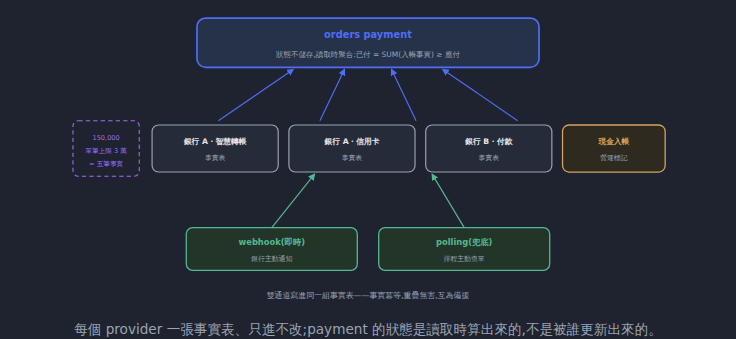
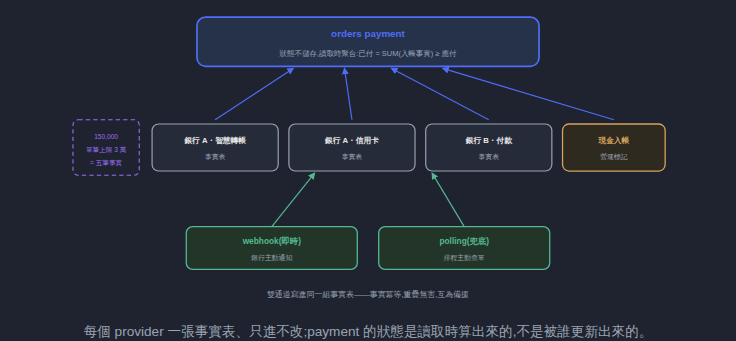
修正 #7 金流章:事實表箭頭錨點、留言層重放的互文、day12 前情銜接
review #7 rezero-payment 的三個修正:

1. 架構圖四支箭頭起點(150/245/335/430)與四張事實表中心
   (147/275/403/520)越往右偏越多——「現金入帳」完全沒有箭頭連到
   orders payment,第四支箭頭反而從銀行 B 上方出發,與 aria-label
   「四張事實表聚合到 payment」不符。改為錨定各表中心。
2. 「同一個原則,在留言層給了你重放」與 #3 的事實矛盾:當年 raw
   不留、無法重放正是 #3 標出的痛點,重放是重來版才補的。改為
   「用缺席教過你重放的價值(當年 raw 沒留、重放做不到)」——
   庫存層與金流層是當年的戰果,留言層是學費,三者並列時要分清。
3. day12 前情銜接:「把上面的架構代入」的架構圖其實在昨天(day11),
   改為「昨天的架構」;開頭前情句與正文重複的「原因一目瞭然」修掉
   一處。

鐵人賽 day11-1.png 重產、day12 同步。

Claude-Session: https://claude.ai/code/session_01CvSnMJ1vCjbkh11Qu9m2ih

diff --git a/src/content/blog/rezero-payment.md b/src/content/blog/rezero-payment.md
@@ -26,10 +26,10 @@ draft: false
     <rect x="130" y="16" width="320" height="46" rx="8" fill="#26324a" stroke="#4f6df5" stroke-width="1.6"/>
     <text x="290" y="35" fill="#4f6df5" font-size="9.2" text-anchor="middle" font-weight="bold">orders payment</text>
     <text x="290" y="52" fill="#9aa4b2" font-size="7" text-anchor="middle">狀態不儲存,讀取時聚合:已付 = SUM(入帳事實) ≥ 應付</text>
-    <line x1="150" y1="112" x2="220" y2="64" stroke="#4f6df5" stroke-width="1.1" marker-end="url(#rpu)"/>
-    <line x1="245" y1="112" x2="268" y2="64" stroke="#4f6df5" stroke-width="1.1" marker-end="url(#rpu)"/>
-    <line x1="335" y1="112" x2="312" y2="64" stroke="#4f6df5" stroke-width="1.1" marker-end="url(#rpu)"/>
-    <line x1="430" y1="112" x2="360" y2="64" stroke="#4f6df5" stroke-width="1.1" marker-end="url(#rpu)"/>
+    <line x1="147" y1="112" x2="220" y2="64" stroke="#4f6df5" stroke-width="1.1" marker-end="url(#rpu)"/>
+    <line x1="275" y1="112" x2="268" y2="64" stroke="#4f6df5" stroke-width="1.1" marker-end="url(#rpu)"/>
+    <line x1="403" y1="112" x2="312" y2="64" stroke="#4f6df5" stroke-width="1.1" marker-end="url(#rpu)"/>
+    <line x1="520" y1="112" x2="360" y2="64" stroke="#4f6df5" stroke-width="1.1" marker-end="url(#rpu)"/>
     <rect x="88" y="116" width="118" height="44" rx="6" fill="#262b3a" stroke="#9aa4b2" stroke-width="1.1"/>
     <text x="147" y="134" fill="#e6e6e6" font-size="7.2" text-anchor="middle" font-weight="bold">銀行 A・智慧轉帳</text>
     <text x="147" y="149" fill="#9aa4b2" font-size="6.4" text-anchor="middle">事實表</text>
@@ -106,7 +106,7 @@ draft: false
 - **亂序?** 五筆部分付款誰先到誰後到,根本不重要——事實各自落地,`SUM` 是讀的時候算的。
 - **沒來?** polling 排程會把漏掉的事實補上——而且因為冪等,polling 和 webhook 重疊也無害,雙通道互為備援。
 
-三套防禦的成本歸零,因為**沒有可以被打壞的狀態**。這是整個系列「事實 append、狀態派生」主旋律的最終回收:同一個原則,在[[rezero-comment-order|留言層]]給了你重放、在[[rezero-inventory|庫存層]]給了你對帳、在金流層直接讓最兇的一類 bug 絕種。
+三套防禦的成本歸零,因為**沒有可以被打壞的狀態**。這是整個系列「事實 append、狀態派生」主旋律的最終回收:同一個原則,在[[rezero-comment-order|留言層]]用缺席教過你重放的價值(當年 raw 沒留、重放做不到)、在[[rezero-inventory|庫存層]]給了你對帳、在金流層直接讓最兇的一類 bug 絕種。
 
 對帳也順著這個結構分了級:某家銀行的付款記錄會帶 orders payment id,**自動對回**;現金靠營運標記——又是一個「自動收大宗、人工收殘量」的漏斗,跟[[rezero-identity|身分章]]的綁定漏斗同構。
 

diff --git a/docs/ironman/day12.md b/docs/ironman/day12.md
@@ -1,10 +1,10 @@
 # Day 12|第三方金流(下):沒有坑的地形
 
-昨天留了個懸念:教科書的三個坑(重複、亂序、失蹤),當年一個都沒踩。把架構代入,原因一目瞭然。
+昨天留了個懸念:教科書的三個坑(重複、亂序、失蹤),當年一個都沒踩。今天把原因攤開。
 
 ## 沒有坑的地形
 
-當年的系統,這三個坑的體感是:「**好像沒遇到什麼問題**」。把上面的架構代入,原因一目瞭然:
+當年的系統,這三個坑的體感是:「**好像沒遇到什麼問題**」。把昨天的架構代入,原因一目瞭然:
 
 ![同樣的三個威脅,兩種地形:一邊要蓋三座碉堡,一邊根本沒有可攻擊的東西。](day12-1.png)
 
@@ -12,7 +12,7 @@
 - **亂序?** 五筆部分付款誰先到誰後到,根本不重要——事實各自落地,`SUM` 是讀的時候算的。
 - **沒來?** polling 排程會把漏掉的事實補上——而且因為冪等,polling 和 webhook 重疊也無害,雙通道互為備援。
 
-三套防禦的成本歸零,因為**沒有可以被打壞的狀態**。這是整個系列「事實 append、狀態派生」主旋律的最終回收:同一個原則,在留言層給了你重放、在庫存層給了你對帳、在金流層直接讓最兇的一類 bug 絕種。
+三套防禦的成本歸零,因為**沒有可以被打壞的狀態**。這是整個系列「事實 append、狀態派生」主旋律的最終回收:同一個原則,在留言層用缺席教過你重放的價值(當年 raw 沒留、重放做不到)、在庫存層給了你對帳、在金流層直接讓最兇的一類 bug 絕種。
 
 對帳也順著這個結構分了級:某家銀行的付款記錄會帶 orders payment id,**自動對回**;現金靠營運標記——又是一個「自動收大宗、人工收殘量」的漏斗,跟身分章的綁定漏斗同構。
 
